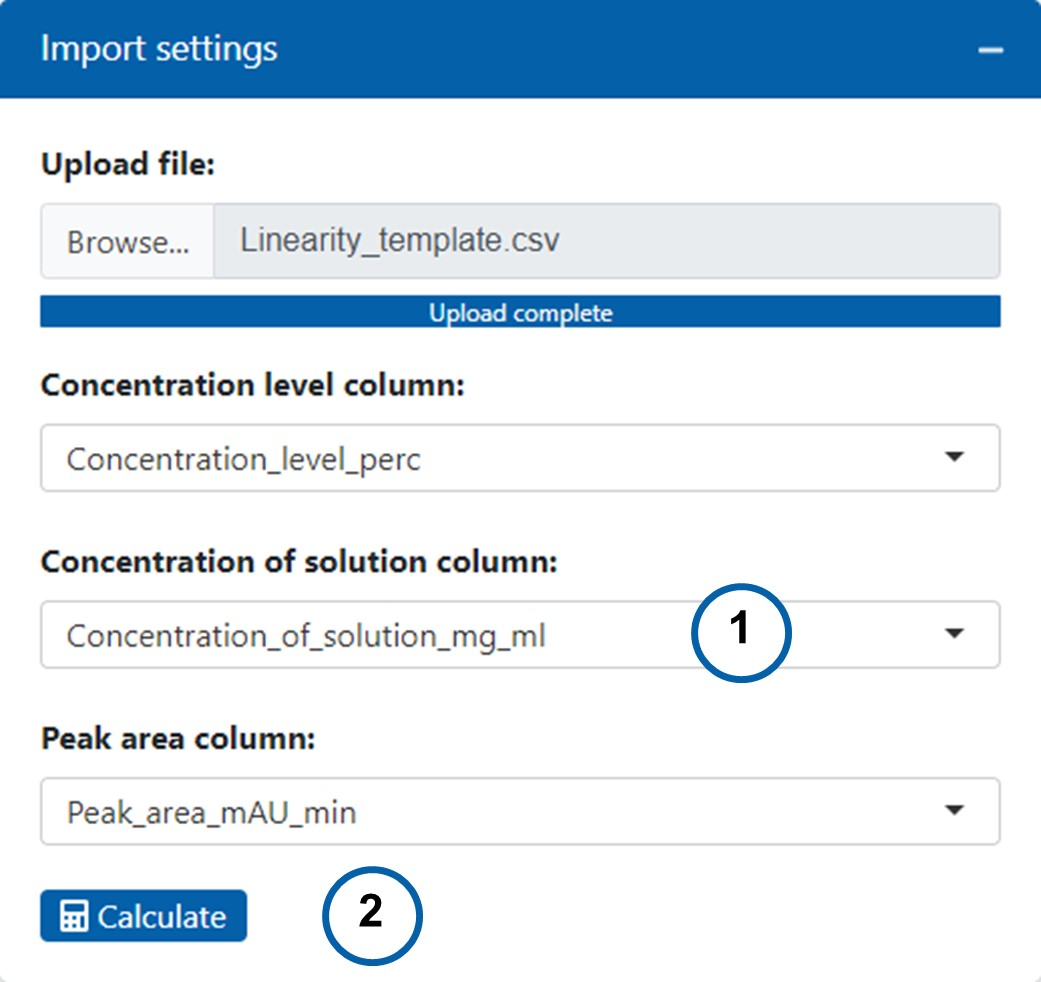
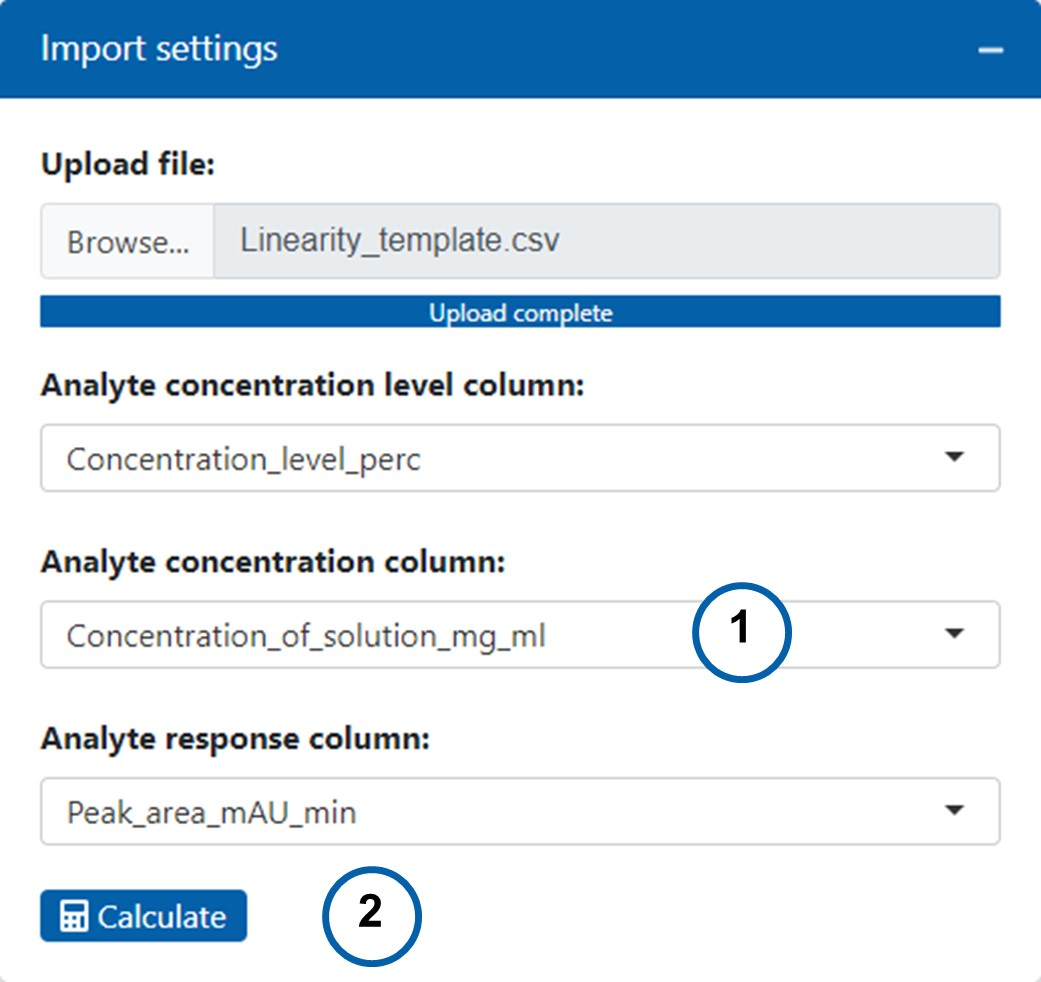
Make minor wording changes

diff --git a/www/user_instructions.html b/www/user_instructions.html
@@ -5,8 +5,8 @@
   <li>The data has to be structured in a <b>stacked format</b> (see 
     <a class="temp_link" href="Template.csv" download>template</a>).</li>
   <li>The file must contain columns with the following information: 
-    <b>concentration levels</b>, <b>concentration of solutions</b> and 
-    <b>peak areas</b>. Column names can be freely chosen. It is not necessary 
+    <b>analyte concentration levels</b>, <b>analyte concentrations</b> and 
+    <b>analyte responses</b>. Column names can be freely chosen. It is not necessary 
     to use the same names as in the example file.</li>
 </ul>
 
@@ -57,24 +57,24 @@
 </ol>
 <img src="Plot_settings.JPG" class="intro_img" alt="Plot settings"><br>
 <ol start="4">
-  <li>Enter a title. The title is displayed above the "Fitted Line Plot", as a 
-    title in the "Assay Results" table and in the left corner of the report 
-    header. If left blank, "Linearity Report" is displayed in the report 
-    header.</li>
-  <li>Enter a x-axis label. X-axis label is displayed in the "Fitted Line Plot" 
-    and is used as column header in the "Assay Results" table for the 
-    corresponding column.</li>
-  <li>Enter a y-axis label. Y-axis label is displayed in the "Fitted Line Plot" 
-    and is used as column header in the "Assay Results" table for the 
-    corresponding column.</li>
-  <li>Enter a reference concentration. The reference concentration is 
+  <li>Enter title. The title is displayed above the "Fitted Line Plot", as a 
+    title in the "Data Used for Linearity Assessment" table and in the left 
+    corner of the report header. If left blank, "Linearity Report" is displayed 
+    in the report header.</li>
+  <li>Enter x-axis label. X-axis label is displayed in the "Fitted Line Plot" 
+    and is used as column header in the "Data Used for Linearity Assessment" 
+    table for the corresponding column.</li>
+  <li>Enter y-axis label. Y-axis label is displayed in the "Fitted Line Plot" 
+    and is used as column header in the "Data Used for Linearity Assessment" 
+    table for the corresponding column.</li>
+  <li>Enter reference concentration. The reference concentration is 
     displayed in the "Fitted Line Plot", provided it is not 0. If reference 
     concentration is provided, the intercept and the residual standard 
     deviation in the "Linear Regression Results" table are expressed as a 
     percentage of the analytical signal at a target or reference concentration 
     (e.g. 100% working concentration for assay determinations or specification 
     limit concentration for impurities determinations)</li>
-  <li>Enter a % of declared content. % of declared contentis the corresponding 
+  <li>Enter % of declared content. % of declared contentis the corresponding 
     concentration level to the reference concentration e.g. for 100% working 
     concentration enter 100 or if your concentration at the specification limit 
     corresponds to 0.17% enter 0.17.</li>

diff --git a/www/statistical_methods.html b/www/statistical_methods.html
@@ -1,16 +1,25 @@
 <h3 class="info_title">Linear Regression</h3>
-<p>Linear regression attempts to model the relationship between two variables 
-   by fitting a linear equation to observed data. A linear regression line has 
-   an equation of the form Y = a + bX, where X is the explanatory variable and 
-   Y is the dependent variable. The most common method for fitting a regression 
-   line is the method of least-squares.</p>
+<p>Initially, linearity should be evaluated by visual examination of a plot of 
+  signals as function of the analyte concentration, e.g., for a linear 
+  response, a residual plot from the regression analysis should exhibit random 
+  deviations.<br>
+  If the linear relationship between analyte response and the analyte 
+  concentration / content has been confirmed by visual inspection, the data 
+  obtained within the linearity experiments can be subjected to statistical 
+  linear regression analysis.<br>
+  Linear regression attempts to model the relationship between two variables 
+  by fitting a linear equation to observed data. A linear regression line has 
+  an equation of the form Y = a + bX, where X is the explanatory variable and 
+  Y is the dependent variable. The most common method for fitting a regression 
+  line is the method of least-squares.</p>
 <br>
 <h3 class="info_title">Homoscedasticity Assessment</h3>
 <p>Homoscedasticity, or homogeneity of variances, is an assumption of equal or 
-  similar variances in different groups being compared e.g. mesured samples at 
-  different concentration levels. In the app, three different tests, namely 
-  Cochran's test, Levene's test, and Fligner-Killeen's test, are used to test 
-  it.<br>
+  similar variances in different groups being compared e.g. measured samples at 
+  different concentration levels. Homoscedasticity evaluation is required for 
+  analytical procedures applied to DS / DP by ANVISA RDC 166/2017 for 
+  submission in Brazil. In the app, three different tests, namely Cochran's 
+  test, Levene's test, and Fligner-Killeen's test, are used to test it.<br>
   If Cochran's variance outlier test produces a significant p-value while the 
   other two tests do not, it is important to consider the Q-Q plot of the 
   residuals. If a visual examination of the residual Q-Q plot reveals that 

diff --git a/www/results.html b/www/results.html
@@ -28,9 +28,9 @@
       that analyte concentration has an impact on analyte response.</td>
   </tr>
   <tr>
-    <td>S</td>
+    <td>s</td>
     <td>Estimated standard deviation of the errors or residual standard 
-      deviation</td>
+      deviation, synonymous with SD</td>
   </tr>
   <tr>
     <td>R</td>
